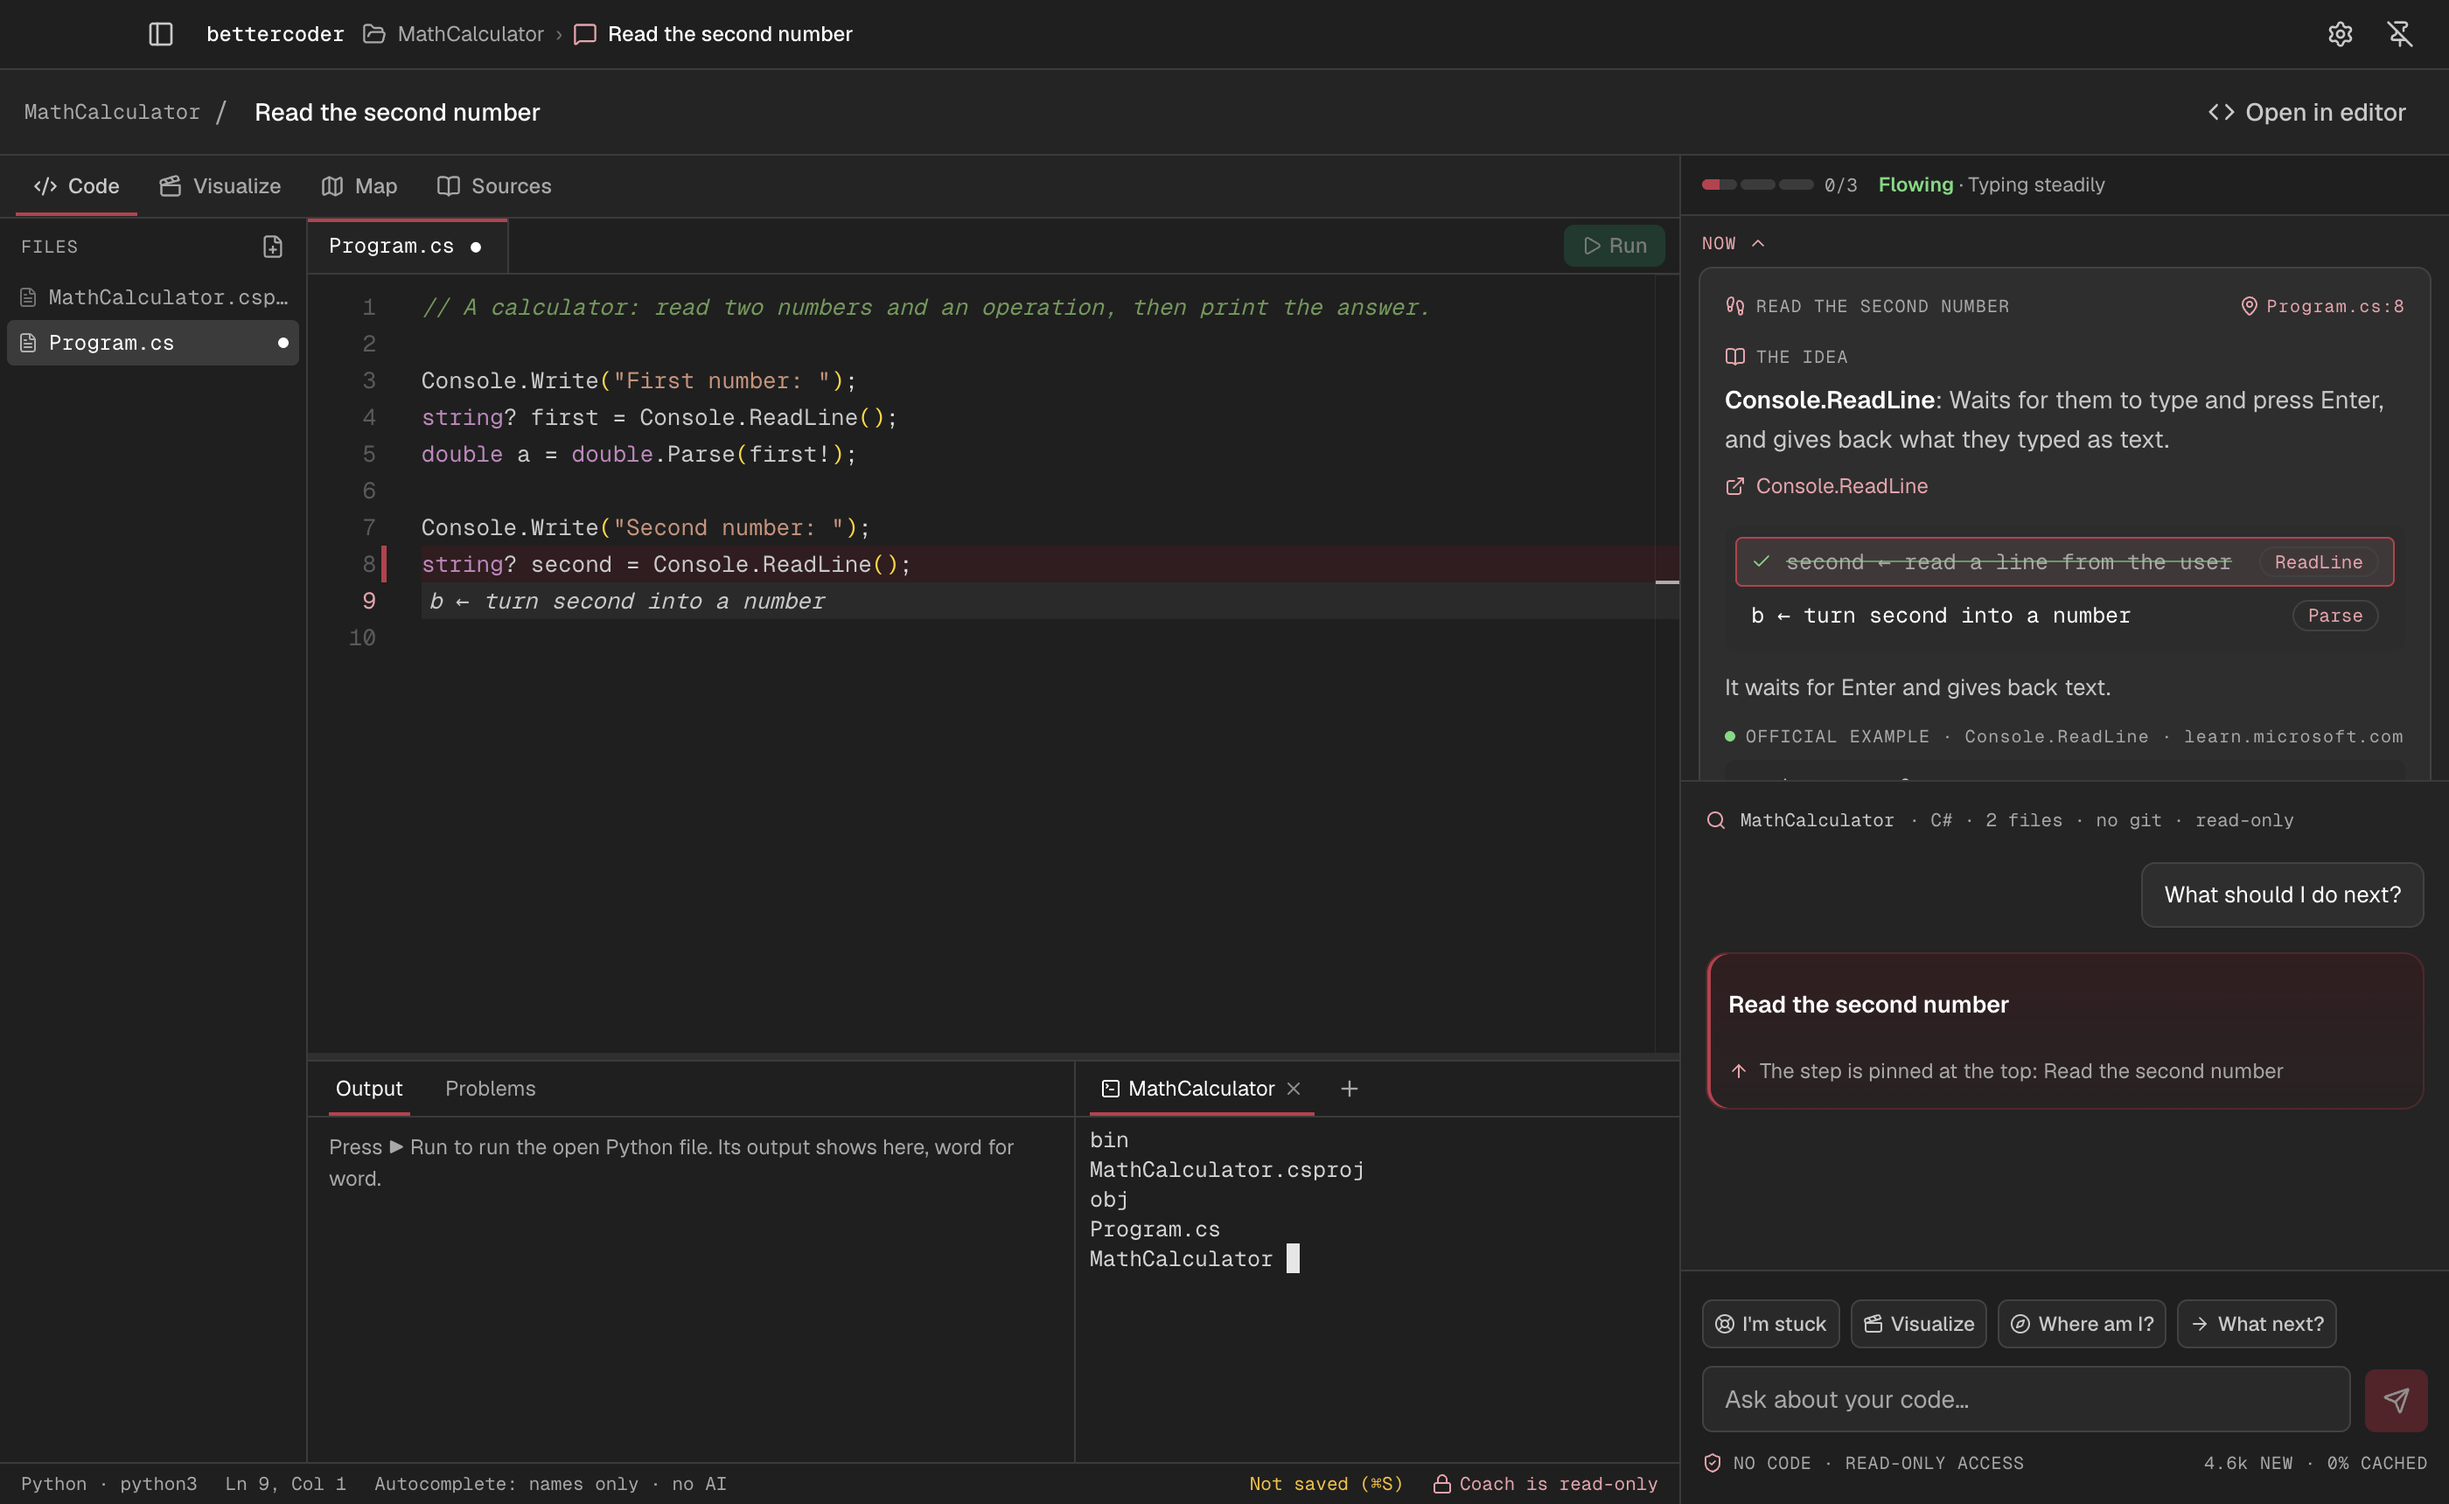
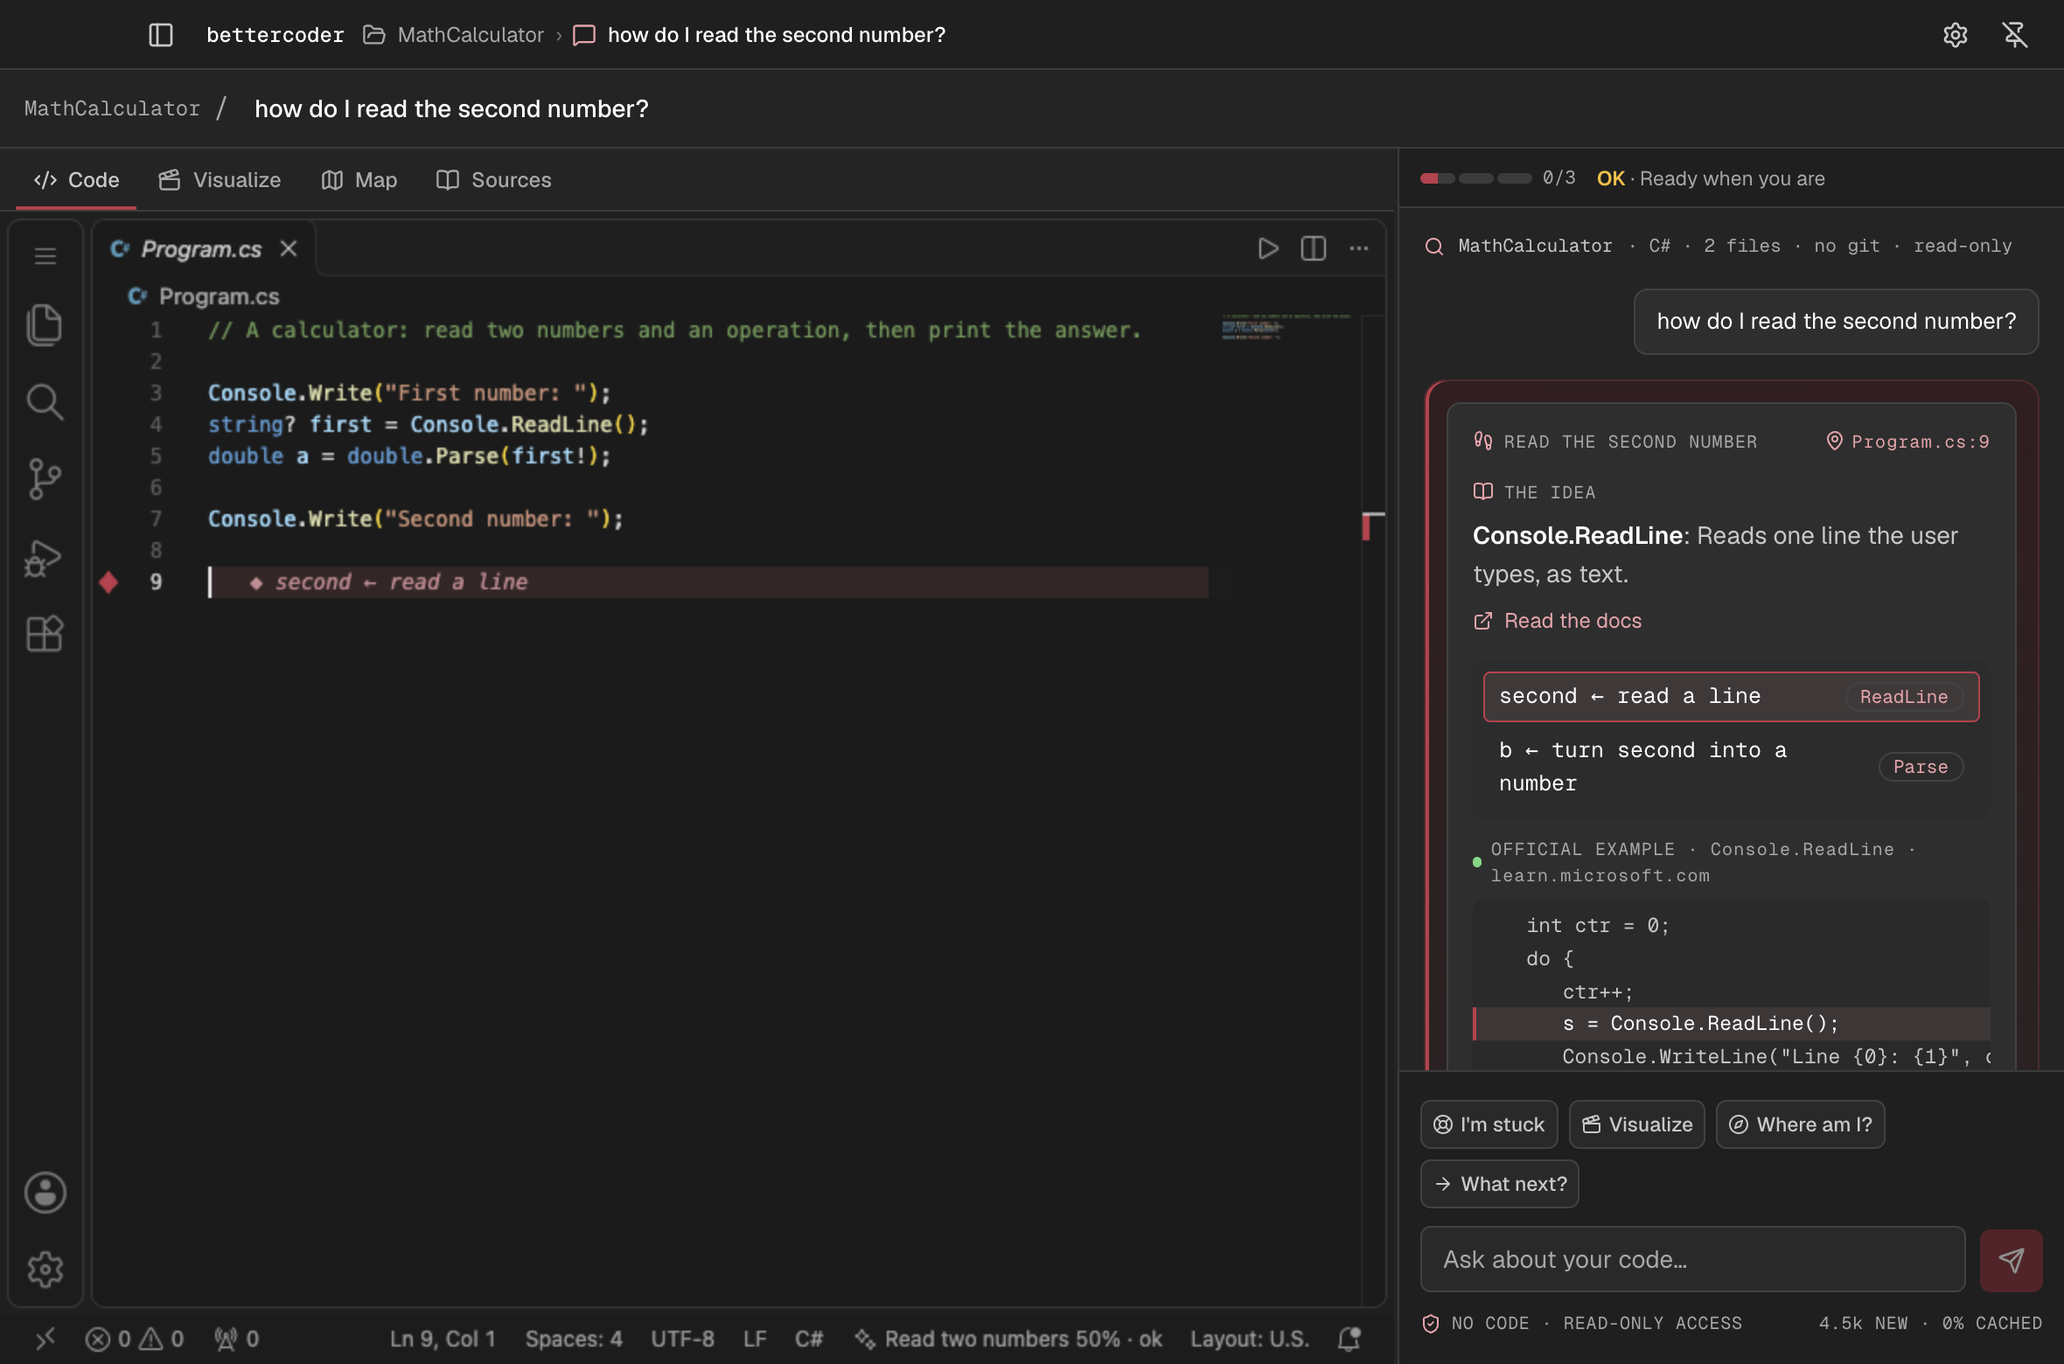
README: retake the hero with VS Code in the Code tab; drop the unused editor GIF

diff --git a/README.md b/README.md
@@ -11,7 +11,7 @@
 </p>
 
 <p align="center">
-  <img src="docs/images/hero.png" alt="BetterCoder with a C# calculator open: the built-in editor with line 8 written and the next pseudocode line faded on line 9, a terminal below, and the coach pane on the right with the current step and its first line ticked off">
+  <img src="docs/images/hero.png" alt="BetterCoder with a C# calculator open: VS Code in the Code tab with line 9 marked and the step's first pseudocode line faded there, and the coach pane on the right with the step card and the official example">
 </p>
 
 ## What it does
